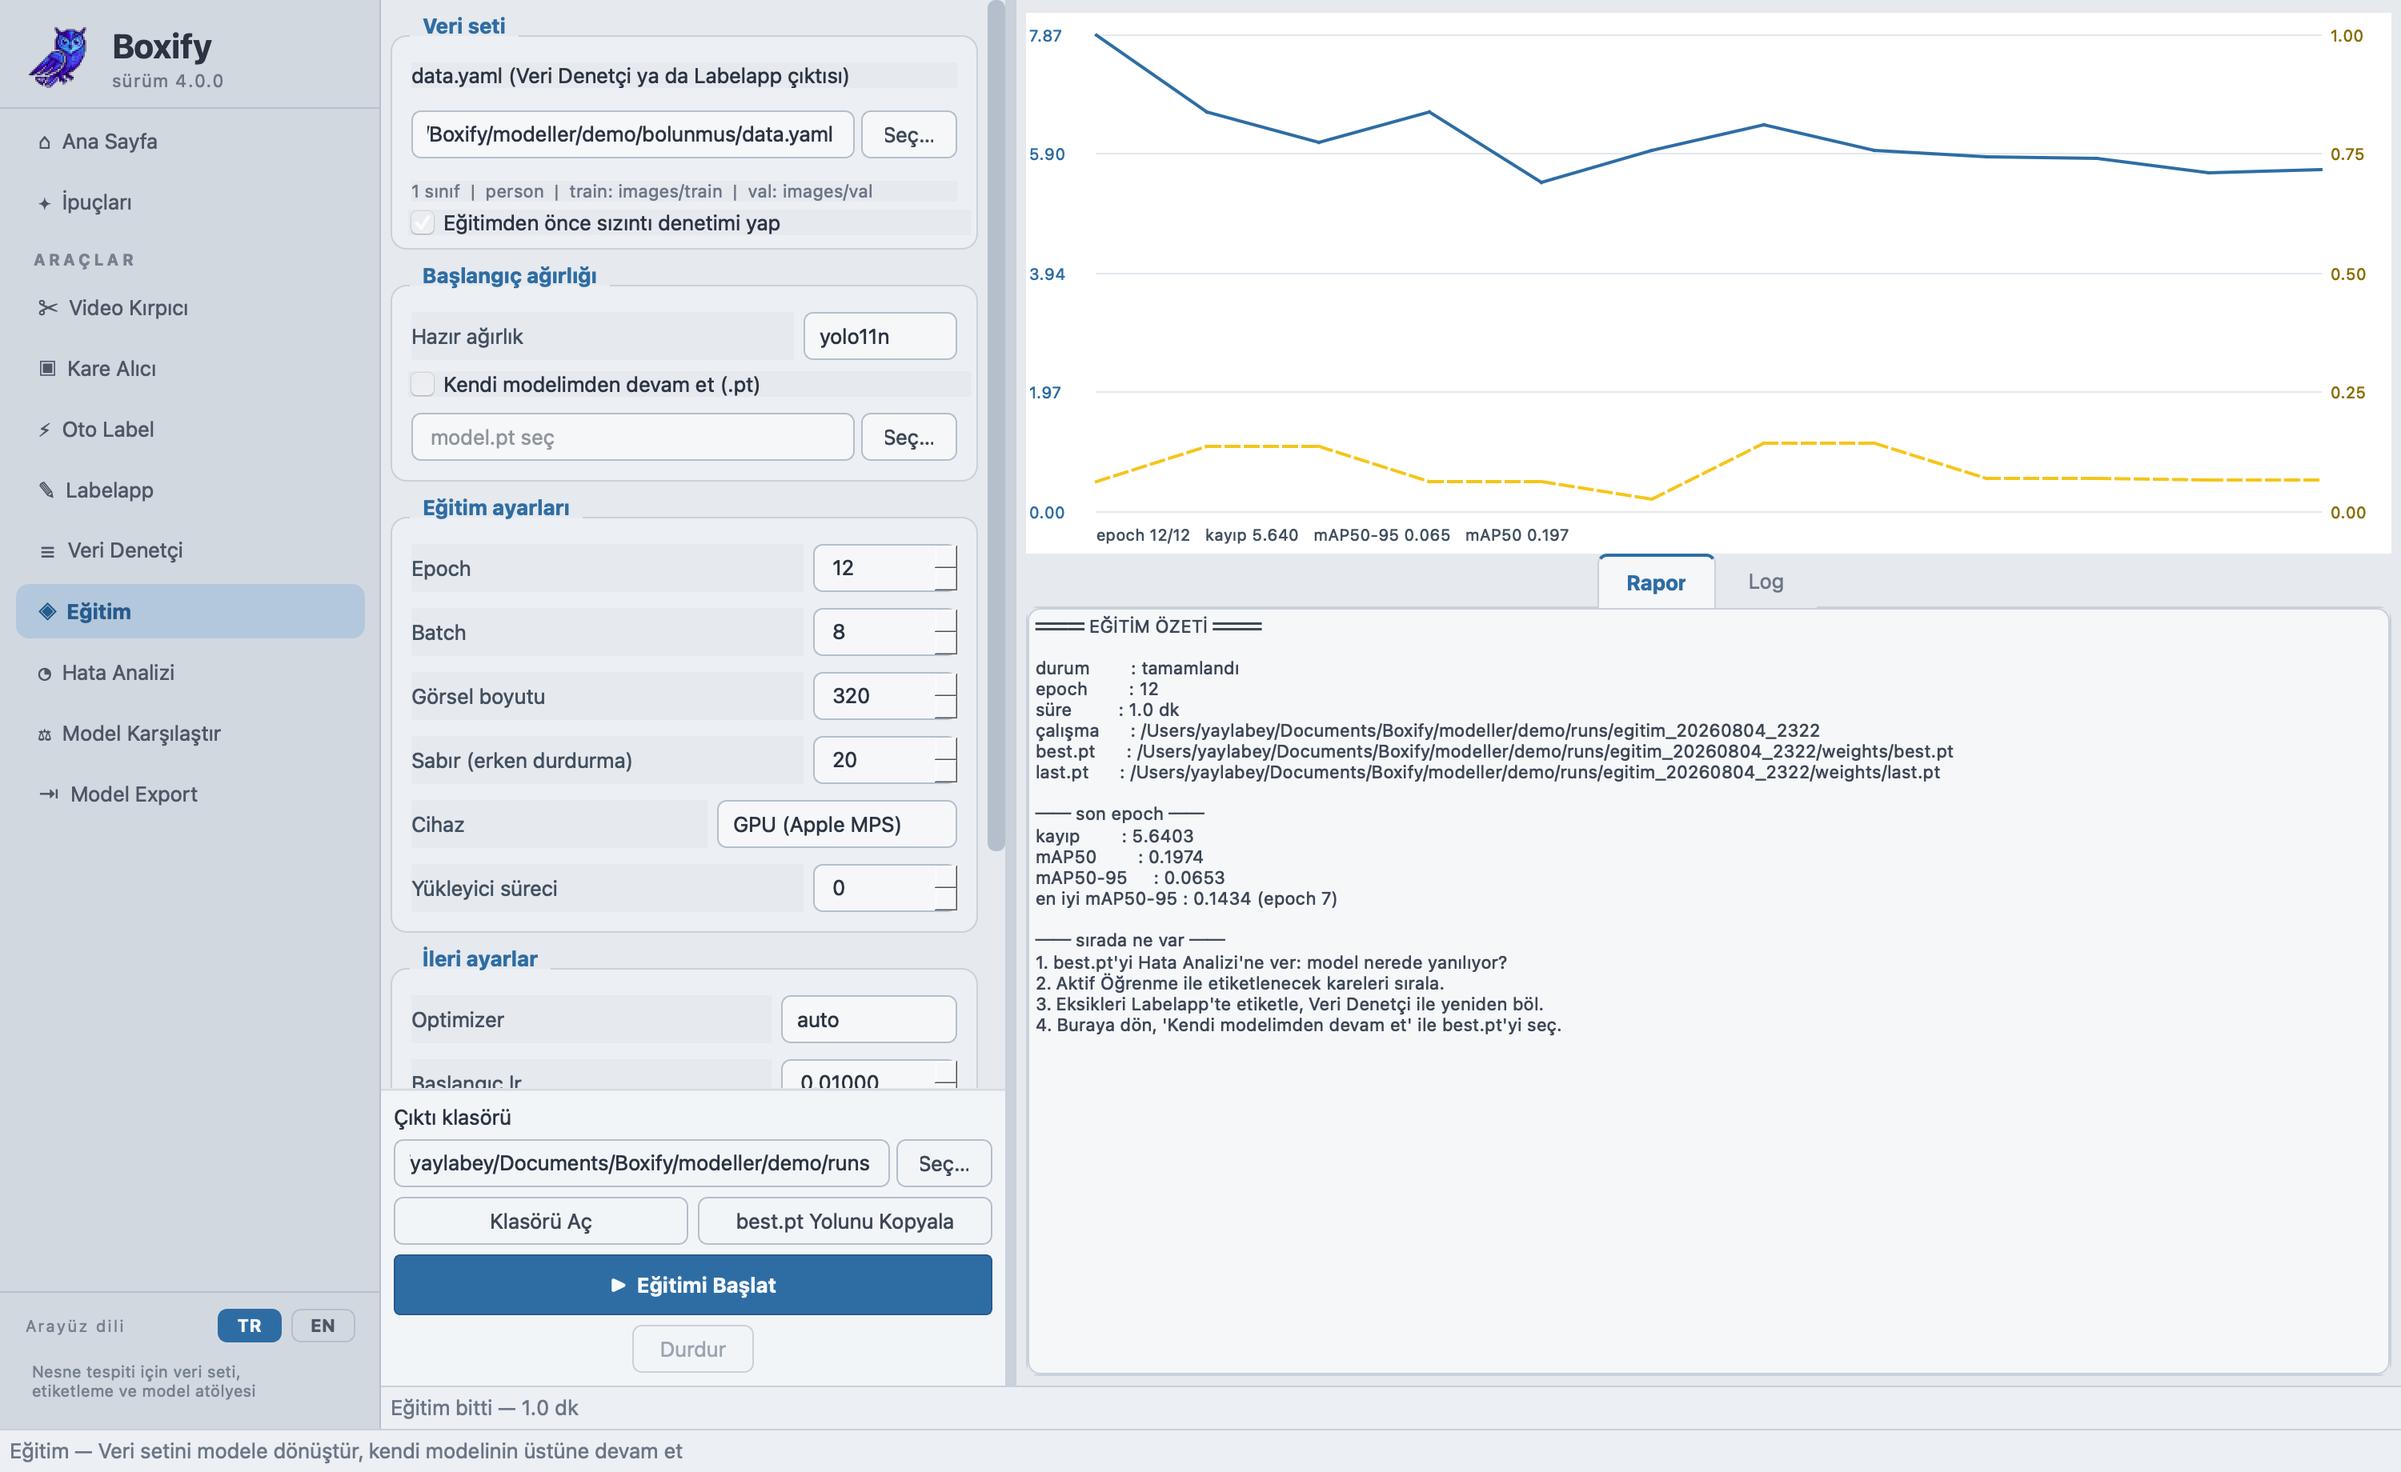
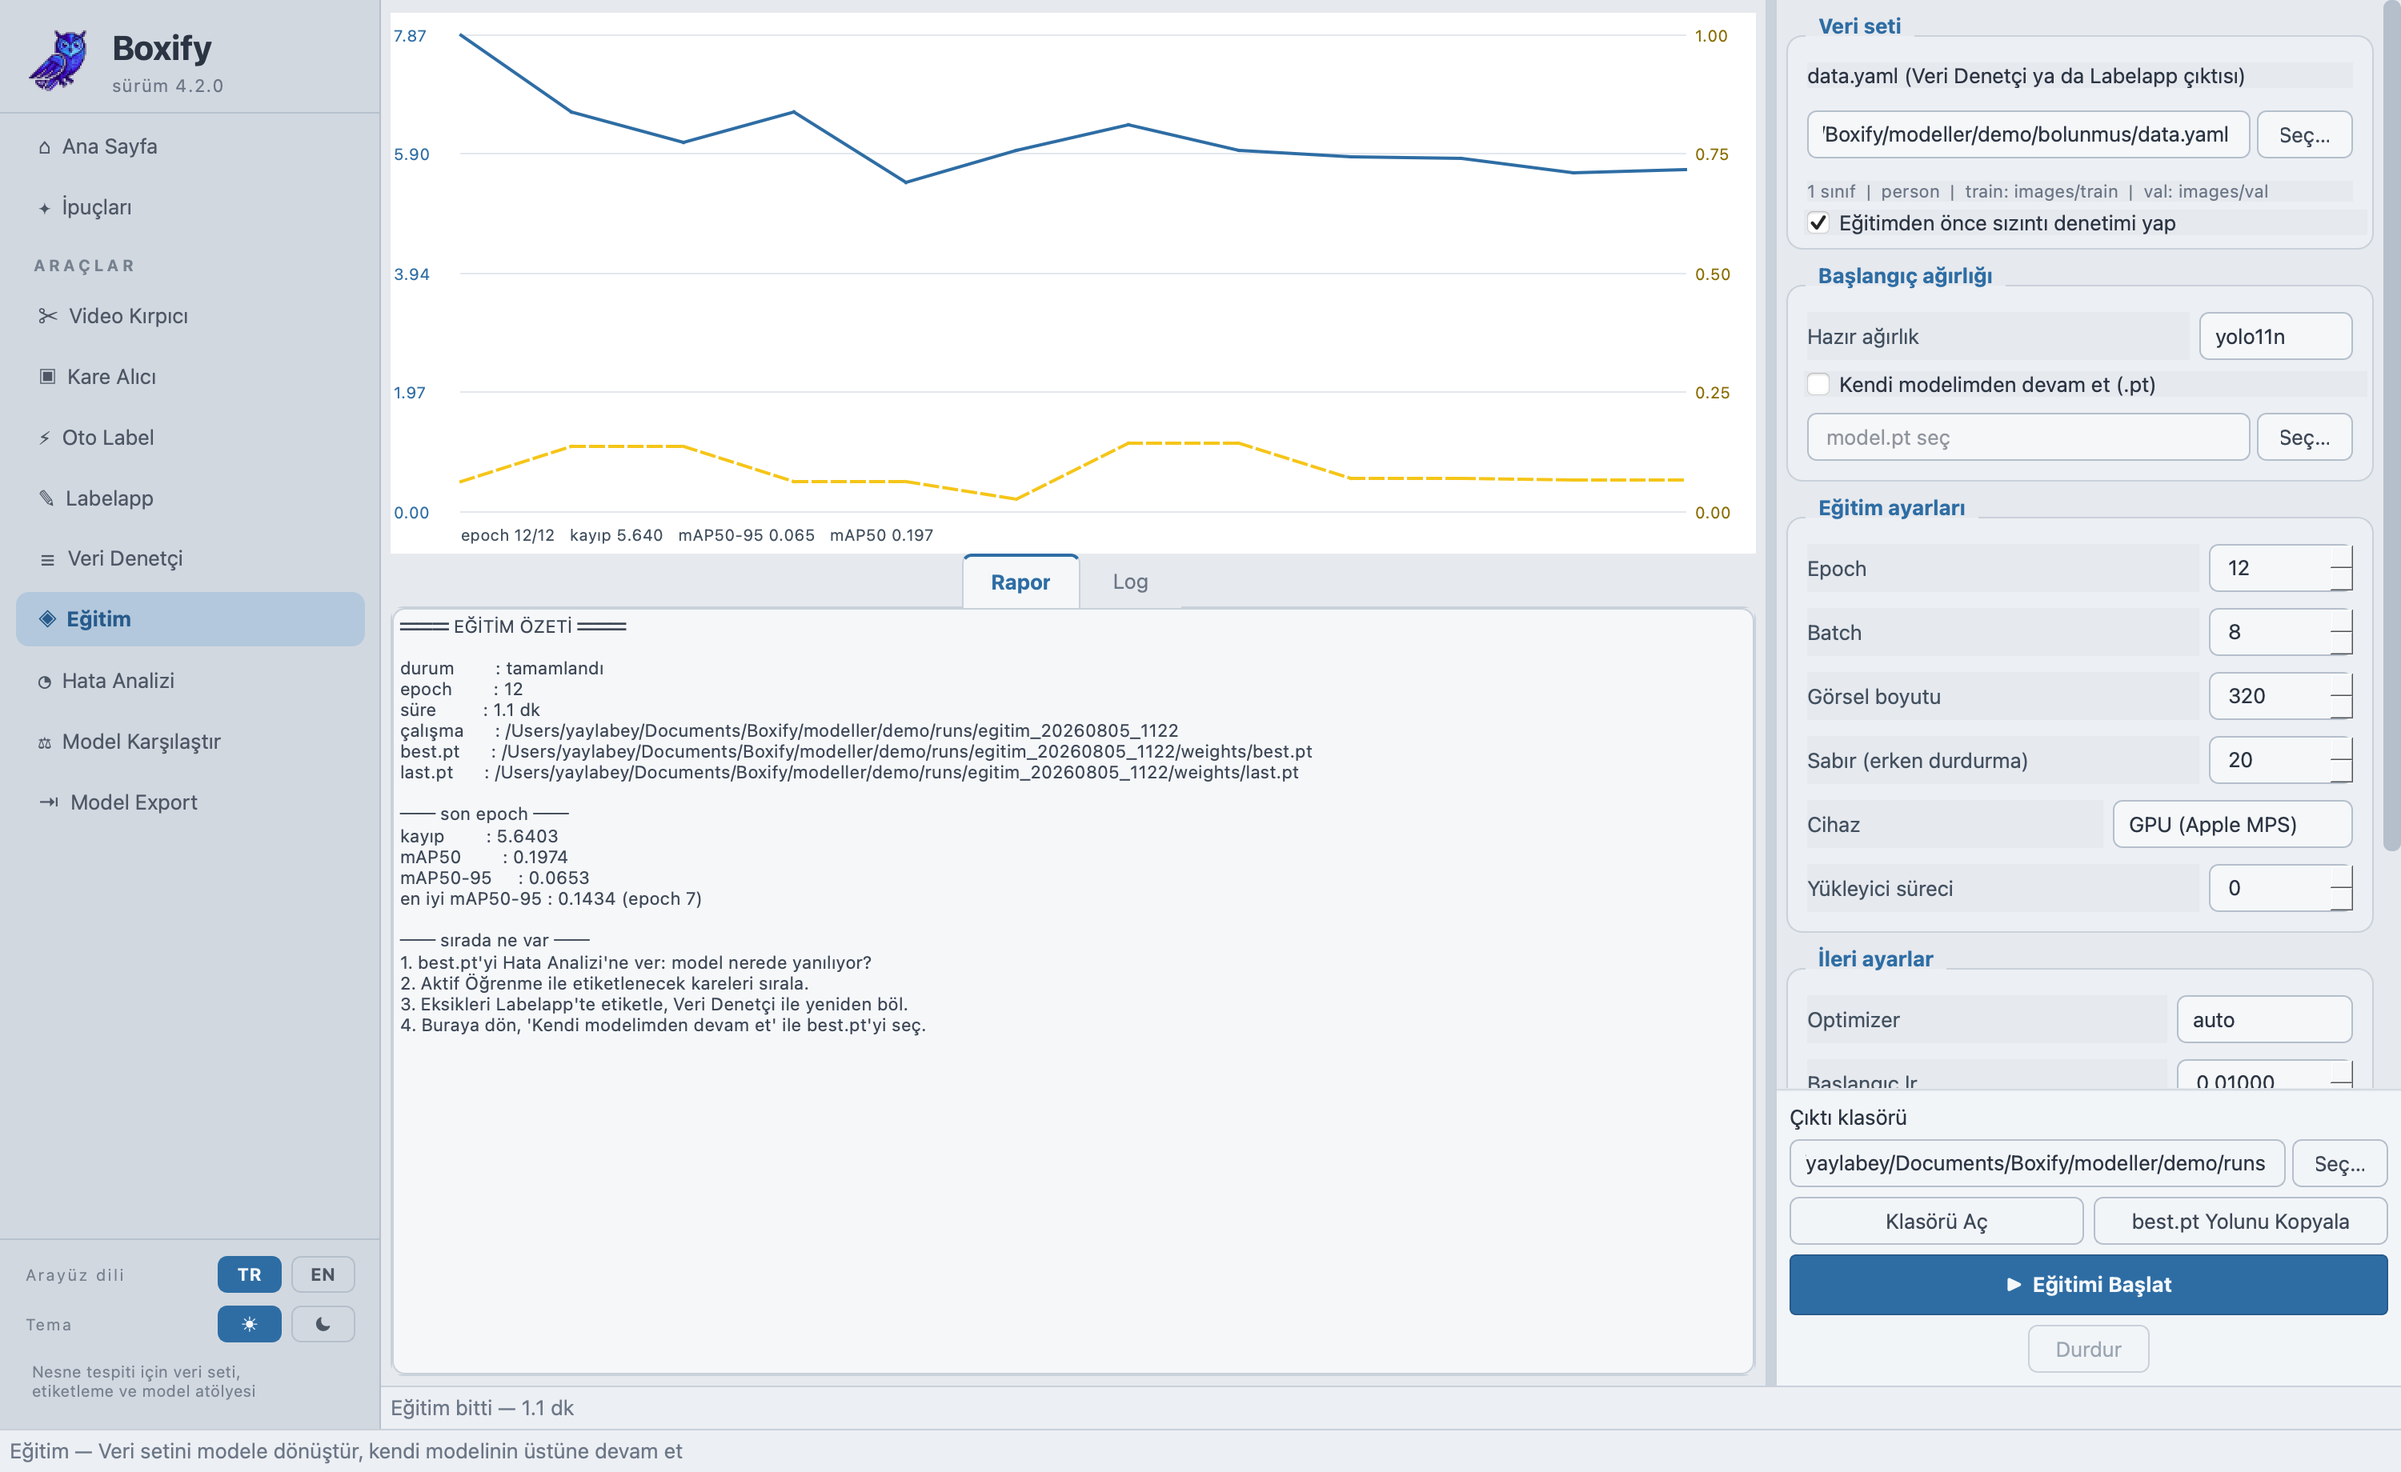
Panel düzenini araçlar arasında eşitle; testleri gerçek ayardan yalıt
Panel düzeni
────────────
Yedi araç ayarları sağa koyarken (sol: kaynak listesi, orta: önizleme),
sonradan yazılan Model Karşılaştır ve Eğitim sola koyuyordu — kaynak
listeleri olmadığı için sol boştaydı ve oraya yerleşmişlerdi.

Kullanıcı bir tur boyunca dokuz araç arasında gidip geliyor; yedi araçta
"ayarlar sağda" alışkanlığı kurup diğer ikisinde şaşırmak her geçişte gözle
arama demek. İkisi de diğerlerine uyduruldu: içerik solda/ortada, ayarlar ve
başlat düğmesi sağda.

testler/test_duzen.py bu kuralı ölçüyor: her aracın başlat düğmesinin pencere
sağ yarısında olduğunu doğruluyor. Eski düzene döndürülüp denendi, yakalıyor
(Eğitim'de x oranı 0.17 çıkıp başarısız oluyor).

Testler kullanıcının ayar dosyasını bozuyordu
─────────────────────────────────────────────
test_yol ve test_tema, ~/.config/boxify4/ayarlar.json dosyasını yedekleyip
geri koyarak deniyordu. Test ortada çökerse kullanıcının ayarı bozuk kalıyor —
ve gerçekten oldu: dosya "tema": "koyu" ve silinmiş geçici klasörlere işaret
eden yol kayıtlarıyla kaldı. Ekran görüntüsü çekerken fark edildi, uygulama
koyu temada açıldı.

ortak.gecici_ayar() üç modülün (dil, tema, proje) yol sabitlerini geçici bir
klasöre çeviriyor; testin gerçek dosyaya erişimi yok. Doğrulandı: testler
koştuktan sonra ayar dosyasının md5'i değişmiyor.

diff --git a/testler/test_duzen.py b/testler/test_duzen.py
@@ -1,0 +1,87 @@
+"""Araçların panel düzeni birbiriyle tutarlı mı?
+
+Dokuz araç aynı kabuğun içinde ve kullanıcı bir tur boyunca aralarında gidip
+geliyor. Bir araçta "ayarlar sağda" öğrenip diğerinde solda bulmak, her geçişte
+gözle arama demek.
+
+Bir dönem tam olarak bu vardı: yedi araç ayarları sağa koyarken sonradan yazılan
+Model Karşılaştır ve Eğitim sola koymuştu (kaynak listeleri olmadığı için sol
+boştaydı). Bu test o ayrışmanın geri gelmesini engeller.
+
+Kural: **başlatma düğmesi ve ayarlar pencerenin sağ yarısında.**
+Kaynak listesi (varsa) solda, önizleme ortada.
+
+    python testler/test_duzen.py
+"""
+
+import os
+import sys
+
+sys.path.insert(0, os.path.dirname(os.path.abspath(__file__)))
+from ortak import yolu_kur, Rapor   # noqa: E402
+
+yolu_kur(sahte_ultralytics=True)
+
+import importlib                                     # noqa: E402
+from PyQt5.QtWidgets import QApplication, QPushButton, QStatusBar  # noqa: E402
+
+from boxify.araclar import ARACLAR                   # noqa: E402
+
+# Her aracın "işi başlatan" düğmesi — ayarların yanında olması gereken düğme.
+BASLAT = {
+    "video_kirpici":     "clip_btn",
+    "kare_alici":        "extract_btn",
+    "oto_label":         "start_btn",
+    "veri_denetci":      "audit_btn",
+    "egitim":            "start_btn",
+    "hata_analizi":      "active_btn",
+    "model_karsilastir": "start_btn",
+    "model_export":      "export_btn",
+}
+
+
+def main() -> int:
+    r = Rapor("Panel düzeni tutarlılığı")
+    app = QApplication.instance() or QApplication([])
+
+    for arac in ARACLAR:
+        anahtar = arac["anahtar"]
+        if anahtar == "labelapp":
+            continue                     # ayrı paket, kendi düzeni var
+        ad = BASLAT.get(anahtar)
+        if not ad:
+            r.kontrol(False, f"{anahtar}: başlat düğmesi tanımlı değil")
+            continue
+
+        m = importlib.import_module(arac["modul"])
+        w = m.MainWindow()
+        w.resize(1400, 880)
+        w.show()
+        app.processEvents()
+
+        dugme = getattr(w, ad, None)
+        if dugme is None:
+            # bazı araçlarda düğme adı değişmiş olabilir; ilk büyük düğmeyi al
+            adaylar = [b for b in w.findChildren(QPushButton)
+                       if b.minimumHeight() >= 34]
+            dugme = adaylar[0] if adaylar else None
+
+        if dugme is None:
+            r.kontrol(False, f"{anahtar}: başlat düğmesi bulunamadı ({ad})")
+            w.close()
+            continue
+
+        # Düğmenin pencere içindeki yatay konumu
+        merkez = dugme.mapTo(w, dugme.rect().center()).x()
+        oran = merkez / max(1, w.width())
+        r.kontrol(oran > 0.5,
+                  f"{anahtar:<18s} başlat düğmesi sağ yarıda",
+                  f"x oranı {oran:.2f} (0.5'ten büyük olmalı)")
+        w.close()
+        app.processEvents()
+
+    return r.bitir()
+
+
+if __name__ == "__main__":
+    sys.exit(main())

diff --git a/testler/ortak.py b/testler/ortak.py
@@ -29,6 +29,41 @@ def gecici(ad: str) -> str:
     return tempfile.mkdtemp(prefix=f"boxify_{ad}_")
 
 
+def gecici_ayar():
+    """Ayar dosyasını geçici bir yola çevir — testler kullanıcınınkine dokunmasın.
+
+    Dil, tema ve yol hafızası hepsi ~/.config/boxify4/ayarlar.json dosyasını
+    kullanıyor. Testler bunu yedekleyip geri koyarak deniyordu; bir test ortada
+    çökerse kullanıcının ayarı bozulmuş kalıyordu — ve bir kez gerçekten oldu:
+    tema "koyu"da, yol hafızası silinmiş geçici klasörlerle dolu kaldı.
+
+    Artık üç modülün yol sabitleri geçici bir klasöre çevriliyor; testin gerçek
+    dosyaya erişimi yok. Dönen fonksiyon çağrılınca eski hâl geri yüklenir.
+    """
+    from boxify import dil, proje, tema
+
+    dizin = tempfile.mkdtemp(prefix="boxify_ayar_")
+    dosya = os.path.join(dizin, "ayarlar.json")
+    onceki = []
+    for modul in (dil, tema, proje):
+        onceki.append((modul, getattr(modul, "AYAR_DIZIN", None),
+                       getattr(modul, "AYAR_DOSYA", None)))
+        if hasattr(modul, "AYAR_DIZIN"):
+            modul.AYAR_DIZIN = dizin
+        if hasattr(modul, "AYAR_DOSYA"):
+            modul.AYAR_DOSYA = dosya
+
+    def geri_al():
+        for modul, eski_dizin, eski_dosya in onceki:
+            if eski_dizin is not None:
+                modul.AYAR_DIZIN = eski_dizin
+            if eski_dosya is not None:
+                modul.AYAR_DOSYA = eski_dosya
+        shutil.rmtree(dizin, ignore_errors=True)
+
+    return dosya, geri_al
+
+
 # ── Sahte veri üretimi ───────────────────────────────────────────────────────
 
 def sahne_kareleri(kok: str, sahne: int = 4, kare: int = 6,

diff --git a/testler/test_yol.py b/testler/test_yol.py
@@ -8,7 +8,7 @@ import shutil
 import json
 import tempfile
 
-from ortak import yolu_kur, KOK   # noqa: E402
+from ortak import yolu_kur, gecici_ayar, KOK   # noqa: E402
 
 yolu_kur(sahte_ultralytics=False)
 
@@ -16,10 +16,8 @@ from PyQt5.QtWidgets import QApplication, QFileDialog
 app = QApplication([])
 from boxify import proje
 
-# gercek ayar dosyasina dokunma
-yedek = proje.AYAR_DOSYA + ".test_yedek"
-vardi = os.path.exists(proje.AYAR_DOSYA)
-if vardi: shutil.copy2(proje.AYAR_DOSYA, yedek)
+# Kullanicinin gercek ayar dosyasina dokunulmuyor: yollar gecici klasore cevrilir
+AYAR, ayar_geri_al = gecici_ayar()
 proje._yollar = {}; proje._kaydet()
 
 # cagrilari yakala: hangi baslangic dizini ile acildi?
@@ -86,12 +84,11 @@ print("\n=== 7. ayar dosyasi dil/temayi ezmiyor mu ===")
 from boxify import dil, tema
 dil.dil_kaydet("en"); tema.tema_kaydet("koyu")
 proje.hatirla("getExistingDirectory:Test", B)
-icerik = json.load(open(proje.AYAR_DOSYA, encoding="utf-8"))
+icerik = json.load(open(AYAR, encoding="utf-8"))
 print(f"   {sorted(icerik.keys())}")
 if not {"dil", "tema", "yollar"} <= set(icerik): hata.append(f"ayar eksik: {icerik.keys()}")
 
 shutil.rmtree(B, ignore_errors=True)
-if vardi: shutil.move(yedek, proje.AYAR_DOSYA)
-else: os.remove(proje.AYAR_DOSYA)
+ayar_geri_al()
 print("\n" + "="*56)
 print("SONUC:", "GECTI — yol hafizasi dogru" if not hata else f"!! {hata}")

diff --git a/testler/test_tema.py b/testler/test_tema.py
@@ -7,7 +7,7 @@ sys.path.insert(0, os.path.dirname(os.path.abspath(__file__)))
 import re
 import json
 
-from ortak import yolu_kur, KOK   # noqa: E402
+from ortak import yolu_kur, gecici_ayar, KOK   # noqa: E402
 
 yolu_kur(sahte_ultralytics=False)
 
@@ -65,19 +65,17 @@ for tema_kod in ("acik", "koyu"):
         if okunaksiz: sorun.append(f"{etiket}: {okunaksiz} okunaksiz")
 
 print("\n=== ayar dosyasi ikisini birden tutuyor mu ===")
-import tempfile, shutil
-yedek = None
-if os.path.exists(tema.AYAR_DOSYA):
-    yedek = tema.AYAR_DOSYA + ".yedek"; shutil.copy2(tema.AYAR_DOSYA, yedek)
+# Kullanicinin gercek ayar dosyasina dokunulmuyor
+AYAR, ayar_geri_al = gecici_ayar()
 dil.dil_kaydet("en"); tema.tema_kaydet("koyu")
-icerik = json.load(open(tema.AYAR_DOSYA, encoding="utf-8"))
+icerik = json.load(open(AYAR, encoding="utf-8"))
 print("  ", icerik)
 if icerik.get("dil") != "en" or icerik.get("tema") != "koyu":
     sorun.append(f"ayar dosyasi: {icerik}")
 dil.dil_kaydet("tr"); tema.tema_kaydet("acik")
-icerik2 = json.load(open(tema.AYAR_DOSYA, encoding="utf-8"))
+icerik2 = json.load(open(AYAR, encoding="utf-8"))
 print("   geri alindi:", icerik2)
-if yedek: shutil.move(yedek, tema.AYAR_DOSYA)
+ayar_geri_al()
 
 print("\n" + "="*60)
 print("SONUC:", "GECTI — dort kombinasyon da temiz" if not sorun else f"!! {sorun[:5]}")

diff --git a/boxify/araclar/model_karsilastir.py b/boxify/araclar/model_karsilastir.py
@@ -492,10 +492,15 @@ class MainWindow(QMainWindow):
         vbox.setContentsMargins(0, 0, 0, 0)
         vbox.setSpacing(0)
 
+        # Panel düzeni diğer araçlarla aynı: içerik solda/ortada, AYARLAR SAĞDA.
+        # Bu araçta kaynak listesi olmadığı için sol başlangıçta ayarlara
+        # verilmişti; yedi araçta "ayarlar sağda" alışkanlığı kuran kullanıcı
+        # burada şaşırıyordu.
         splitter = QSplitter(Qt.Horizontal)
-        splitter.addWidget(self._build_left())
         splitter.addWidget(self._build_center())
-        splitter.setSizes([400, 900])
+        splitter.addWidget(self._build_ayarlar())
+        splitter.setSizes([900, 400])
+        splitter.setStretchFactor(0, 1)
         vbox.addWidget(splitter, 1)
 
         self.status = QStatusBar()
@@ -503,7 +508,7 @@ class MainWindow(QMainWindow):
         self.status.showMessage(
             "Video seç, 1-3 model ekle, sınıfları ve ayarları düzenleyip Başlat'a bas.")
 
-    def _build_left(self) -> QWidget:
+    def _build_ayarlar(self) -> QWidget:
         """Sol panel: kaydırılan ayarlar + dibe sabitlenmiş çalıştırma satırı.
 
         Başlat/ilerleme/iptal bilerek kaydırma alanının DIŞINDA duruyor. Bu

diff --git a/boxify/araclar/egitim.py b/boxify/araclar/egitim.py
@@ -422,11 +422,12 @@ class MainWindow(QMainWindow):
         v.setContentsMargins(0, 0, 0, 0)
         v.setSpacing(0)
 
+        # Panel düzeni diğer araçlarla aynı: içerik solda, AYARLAR SAĞDA.
         sp = QSplitter(Qt.Horizontal)
-        sp.addWidget(self._build_left())
-        sp.addWidget(self._build_right())
-        sp.setSizes([390, 850])
-        sp.setStretchFactor(1, 1)
+        sp.addWidget(self._build_icerik())
+        sp.addWidget(self._build_ayarlar())
+        sp.setSizes([850, 390])
+        sp.setStretchFactor(0, 1)
         v.addWidget(sp, 1)
 
         self.status = QStatusBar()
@@ -453,7 +454,7 @@ class MainWindow(QMainWindow):
         h.addWidget(widget)
         return h
 
-    def _build_left(self) -> QWidget:
+    def _build_ayarlar(self) -> QWidget:
         kutu = QWidget()
         kutu.setMinimumWidth(340)
         kutu.setMaximumWidth(470)
@@ -670,7 +671,7 @@ class MainWindow(QMainWindow):
         dis.addWidget(serit)
         return kutu
 
-    def _build_right(self) -> QWidget:
+    def _build_icerik(self) -> QWidget:
         w = QWidget()
         v = QVBoxLayout(w)
         v.setContentsMargins(6, 8, 6, 6)

diff --git a/README.md b/README.md
@@ -561,6 +561,10 @@ tag'e geçebilirsin — bkz. [Sürüm geçmişi](#sürüm-geçmişi).
   atarsa hiçbir sinyal çıkmaz ve arayüz ilerlemeyen bir çubukta asılı kalır. ffmpeg çağıran
   işçiler bu yüzden `Popen`'i her zaman try/except içinde açar ve hatayı `error` sinyaliyle
   bildirir.
+- **Panel düzeni her araçta aynı:** kaynak listesi (varsa) solda, önizleme ortada, **ayarlar ve
+  başlat düğmesi sağda**. Bir dönem Model Karşılaştır ve Eğitim ayarları sola koyuyordu —
+  kaynak listeleri olmadığı için sol boştaydı. Yedi araçta "ayarlar sağda" alışkanlığı kuran
+  kullanıcı o ikisinde her seferinde gözle arıyordu. `testler/test_duzen.py` bu kuralı ölçüyor.
 - **Yol hafızası:** Dokuz araçta toplam 33 dosya/klasör seçim diyalogu var ve bir tur bunların
   arasında gidip gelmekle geçiyor. Her diyalog en son nereyi açtığını hatırlar
   (`boxify/proje.py`), böylece aynı klasöre onlarca kez elle gidilmez. Anahtar diyalogun
